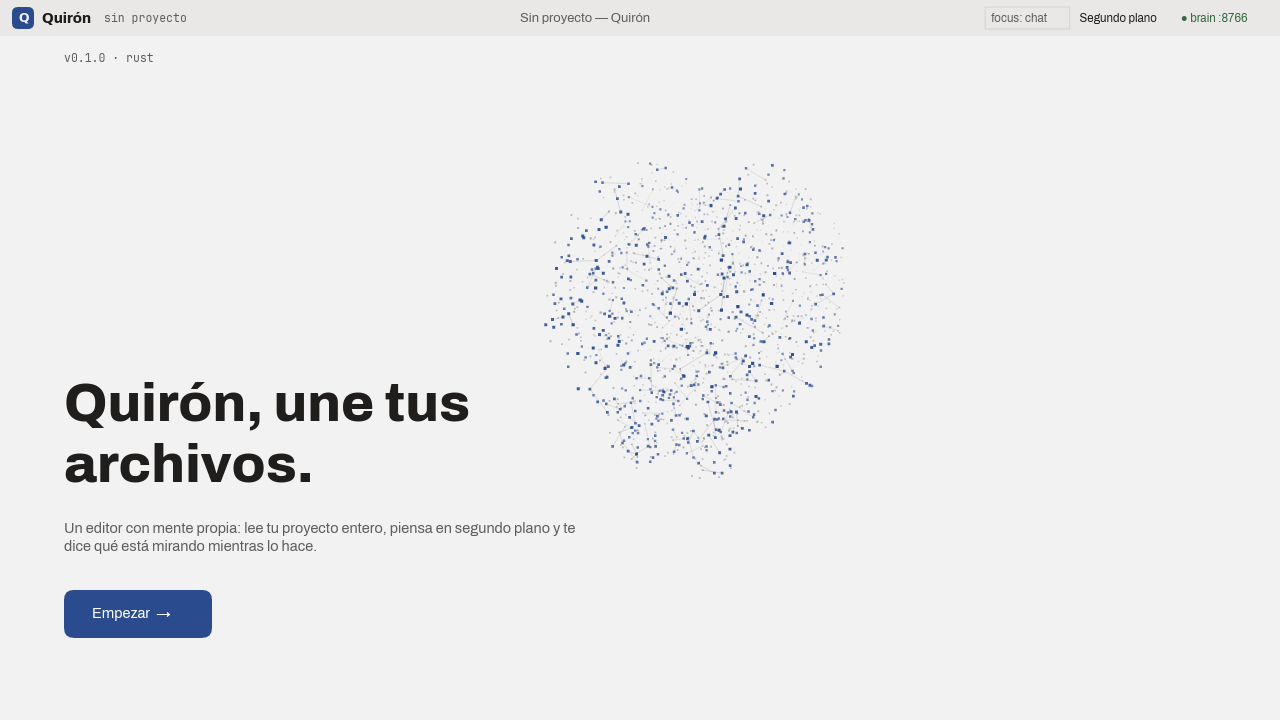
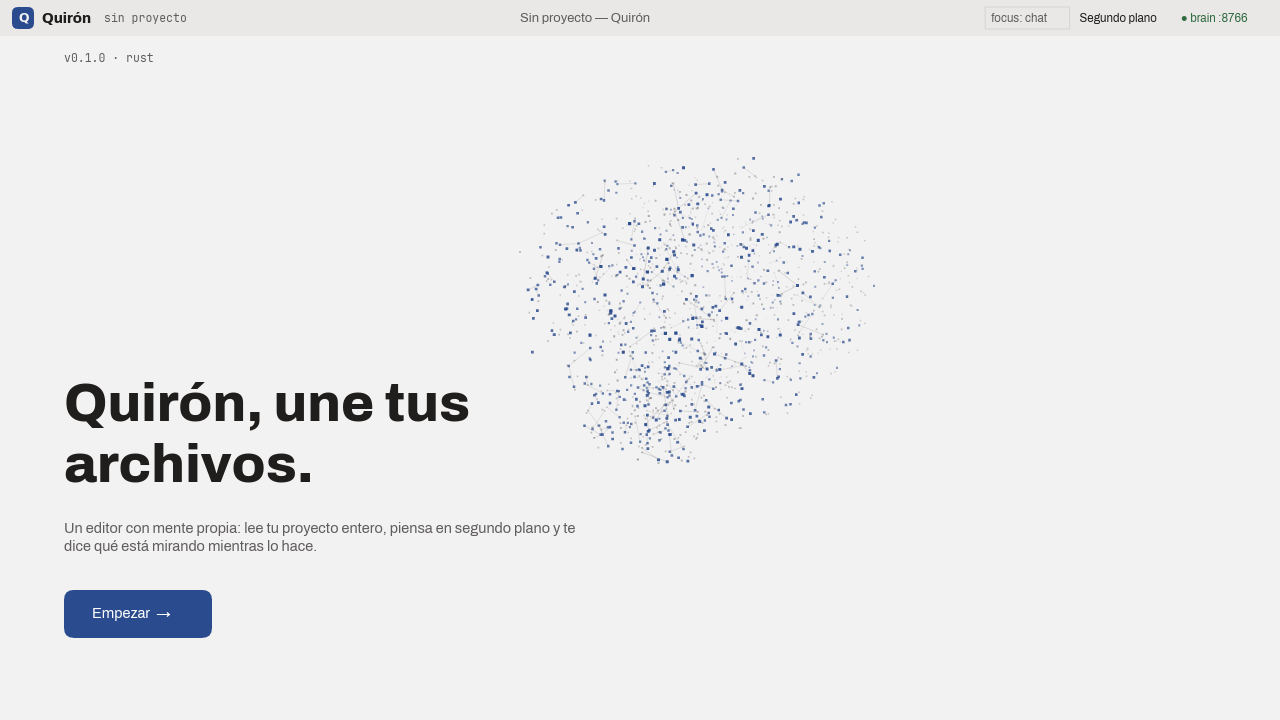
Bienvenida: el holograma responde al ratón
Gira hacia el cursor (guiñada por la horizontal, cabeceo por la vertical)
con inercia, y los puntos bajo el cursor crecen y se encienden con caída
suave al borde del radio; sin cursor vuelve despacio al reposo. El arnés
X11 admite `--cursor X Y` (hyprctl movecursor) para capturarlo.

Changed region(s): [[0.4375, 0.2444, 0.6562, 0.6417]]

diff --git a/Quirón/llore_editor/crates/llore_ui/src/bin/llore_gui.rs b/Quirón/llore_editor/crates/llore_ui/src/bin/llore_gui.rs
@@ -2993,12 +2993,29 @@ fn render_welcome(
         .min(bounds.height * 0.64);
     let cx = bounds.x + bounds.width * 0.55;
     let cy = bounds.y + (bounds.height * 0.40).max(lado * 0.5 + 24.0);
+    // Sensible al ratón: el holograma gira hacia el cursor (guiñada por la
+    // horizontal, cabeceo por la vertical) con inercia, y los puntos que quedan
+    // bajo el cursor se encienden. Sin cursor, vuelve despacio al reposo.
+    let objetivo = state.cursor_pos.map_or((0.0, 0.0), |(mx, my)| {
+        (
+            ((mx - cx) / bounds.width * 1.1).clamp(-0.7, 0.7),
+            ((my - cy) / bounds.height * 0.8).clamp(-0.45, 0.45),
+        )
+    });
+    let mirada = state.welcome_gaze;
+    let mirada = (
+        mirada.0 + (objetivo.0 - mirada.0) * 0.08,
+        mirada.1 + (objetivo.1 - mirada.1) * 0.08,
+    );
+    state.welcome_gaze = mirada;
     draw_brain_hologram(
         canvas,
         cx,
         cy,
         lado,
         state.welcome_clock.elapsed().as_secs_f32(),
+        mirada,
+        state.cursor_pos,
         Color::from_hex(palette.accent),
         Color::from_hex(palette.text_muted),
     );
@@ -3061,12 +3078,15 @@ fn render_welcome(
 /// sobre su eje, con perspectiva y profundidad (lo cercano, más grande y más
 /// opaco) y trazos finos entre vecinos. Es determinista (semilla fija): entre
 /// fotogramas solo cambia el ángulo. El lienzo no pinta imágenes; esto se dibuja.
+#[allow(clippy::too_many_arguments)]
 fn draw_brain_hologram(
     canvas: &mut Canvas,
     cx: f32,
     cy: f32,
     lado: f32,
     t: f32,
+    mirada: (f32, f32),
+    cursor: Option<(f32, f32)>,
     acento: Color,
     apagado: Color,
 ) {
@@ -3111,9 +3131,10 @@ fn draw_brain_hologram(
         }
     }
 
-    // Giro lento sobre el eje vertical y una inclinación fija hacia la cámara.
-    let (sa, ca) = (t * 0.45).sin_cos();
-    let (st, ct) = 0.26_f32.sin_cos();
+    // Giro lento sobre el eje vertical más la guiñada hacia el cursor, y una
+    // inclinación hacia la cámara corregida por el cabeceo.
+    let (sa, ca) = (t * 0.45 + mirada.0).sin_cos();
+    let (st, ct) = (0.26 + mirada.1).sin_cos();
     let proyectar = |x: f32, y: f32, z: f32| -> (f32, f32, f32) {
         let xr = x * ca + z * sa;
         let zr = -x * sa + z * ca;
@@ -3161,12 +3182,23 @@ fn draw_brain_hologram(
             .partial_cmp(&proyectados[a].2)
             .unwrap_or(std::cmp::Ordering::Equal)
     });
+    // Bajo el cursor los puntos se encienden y crecen, con caída suave al
+    // borde del radio; lejos de él todo sigue igual.
+    let radio = lado * 0.22;
     for i in orden {
         let (sx, sy, zf, fuerte) = proyectados[i];
         let c = cercania(zf);
-        let d = (if fuerte { 2.6 } else { 1.7 }) * (0.65 + 0.7 * c) * escala.max(0.6);
-        let color = if fuerte {
-            acento.with_alpha((80.0 + 175.0 * c) as u8)
+        let brillo = cursor.map_or(0.0, |(mx, my)| {
+            let d = ((sx - mx).powi(2) + (sy - my).powi(2)).sqrt();
+            (1.0 - d / radio).clamp(0.0, 1.0)
+        });
+        let d = (if fuerte { 2.6 } else { 1.7 })
+            * (0.65 + 0.7 * c)
+            * escala.max(0.6)
+            * (1.0 + 0.9 * brillo);
+        let color = if fuerte || brillo > 0.35 {
+            let base = 80.0 + 175.0 * c;
+            acento.with_alpha((base + (255.0 - base) * brillo) as u8)
         } else {
             apagado.with_alpha((28.0 + 96.0 * c) as u8)
         };

diff --git a/scripts/smoke-gui-x11.py b/scripts/smoke-gui-x11.py
@@ -14,6 +14,7 @@ parser.add_argument('--edit-smoke',action='store_true',help='Crear un proyecto t
 parser.add_argument('--chat',help='Pregunta ASCII que se teclea en el chat con el proyecto abierto; espera la respuesta y la captura')
 parser.add_argument('--stay',type=float,default=0.0,help='Segundos extra con la ventana abierta antes de capturar (p. ej. para ver el índice avanzar)')
 parser.add_argument('--enter',action='store_true',help='Pulsa Intro en la bienvenida (Empezar) y captura el programa sin proyecto')
+parser.add_argument('--cursor',nargs=2,type=int,metavar=('X','Y'),help='Mueve el cursor a esa posición relativa a la ventana y captura gui-cursor.png')
 parser.add_argument('--output-dir',type=Path,required=True)
 args=parser.parse_args()
 if args.edit_smoke and args.project:
@@ -197,6 +198,13 @@ try:
     if args.stay > 0:
         time.sleep(args.stay)
     screenshot(window,args.output_dir/'gui-1280.png')
+    if args.cursor:
+        clientes=json.loads(subprocess.run(['hyprctl','clients','-j'],capture_output=True,text=True).stdout)
+        propia=[c for c in clientes if c.get('pid')==p.pid]
+        if propia:
+            ax,ay=propia[0]['at']
+            subprocess.run(['hyprctl','dispatch','movecursor',str(ax+args.cursor[0]),str(ay+args.cursor[1])],check=True,stdout=subprocess.DEVNULL)
+            time.sleep(1.5); screenshot(window,args.output_dir/'gui-cursor.png')
     if args.enter:
         key('Return'); time.sleep(1.0)
         screenshot(window,args.output_dir/'gui-programa.png')

diff --git a/Quirón/llore_editor/crates/llore_ui/src/app.rs b/Quirón/llore_editor/crates/llore_ui/src/app.rs
@@ -1755,6 +1755,9 @@ pub struct AppState {
     pub welcome_dismissed: bool,
     /// Reloj del holograma de la bienvenida.
     pub welcome_clock: Instant,
+    /// Hacia dónde mira el holograma (guiñada, cabeceo), con inercia hacia el
+    /// cursor; en reposo, (0, 0).
+    pub welcome_gaze: (f32, f32),
     /// Bounds de la columna sidebar (explorer)
     pub sidebar_bounds: Option<Bounds>,
     /// Panel activo del sidebar (explorer/search/git).
@@ -2230,6 +2233,7 @@ impl AppState {
             chat_scroll_max: 0.0,
             welcome_dismissed: false,
             welcome_clock: Instant::now(),
+            welcome_gaze: (0.0, 0.0),
             sidebar_bounds: None,
             sidebar_panel: SidebarPanel::Explorer,
             explorer_dock: PanelDock::Left,

diff --git a/docs/CIERRE_2026-09-05.md b/docs/CIERRE_2026-09-05.md
@@ -506,3 +506,9 @@ está a la vista el bucle de eventos pide un fotograma cada 33 ms (5,5 ms de
 media, 12 ms de máximo, medidos con `QUIRON_FRAME_TIMING`); con proyecto abierto
 vuelve al sondeo de 250 ms. Capturas en `evidencias/2026-09-05/gui-bienvenida/`
 (bienvenida y programa sin proyecto, vía `--enter` del arnés).
+
+El holograma responde al ratón: gira hacia el cursor (guiñada por la
+horizontal, cabeceo por la vertical) con inercia, y los puntos bajo el cursor
+crecen y se encienden en el acento, con caída suave al borde del radio; sin
+cursor vuelve despacio al reposo. Captura con el cursor sobre la nube en
+`gui-bienvenida/gui-cursor.png` (arnés `--cursor X Y`, vía `hyprctl movecursor`).
